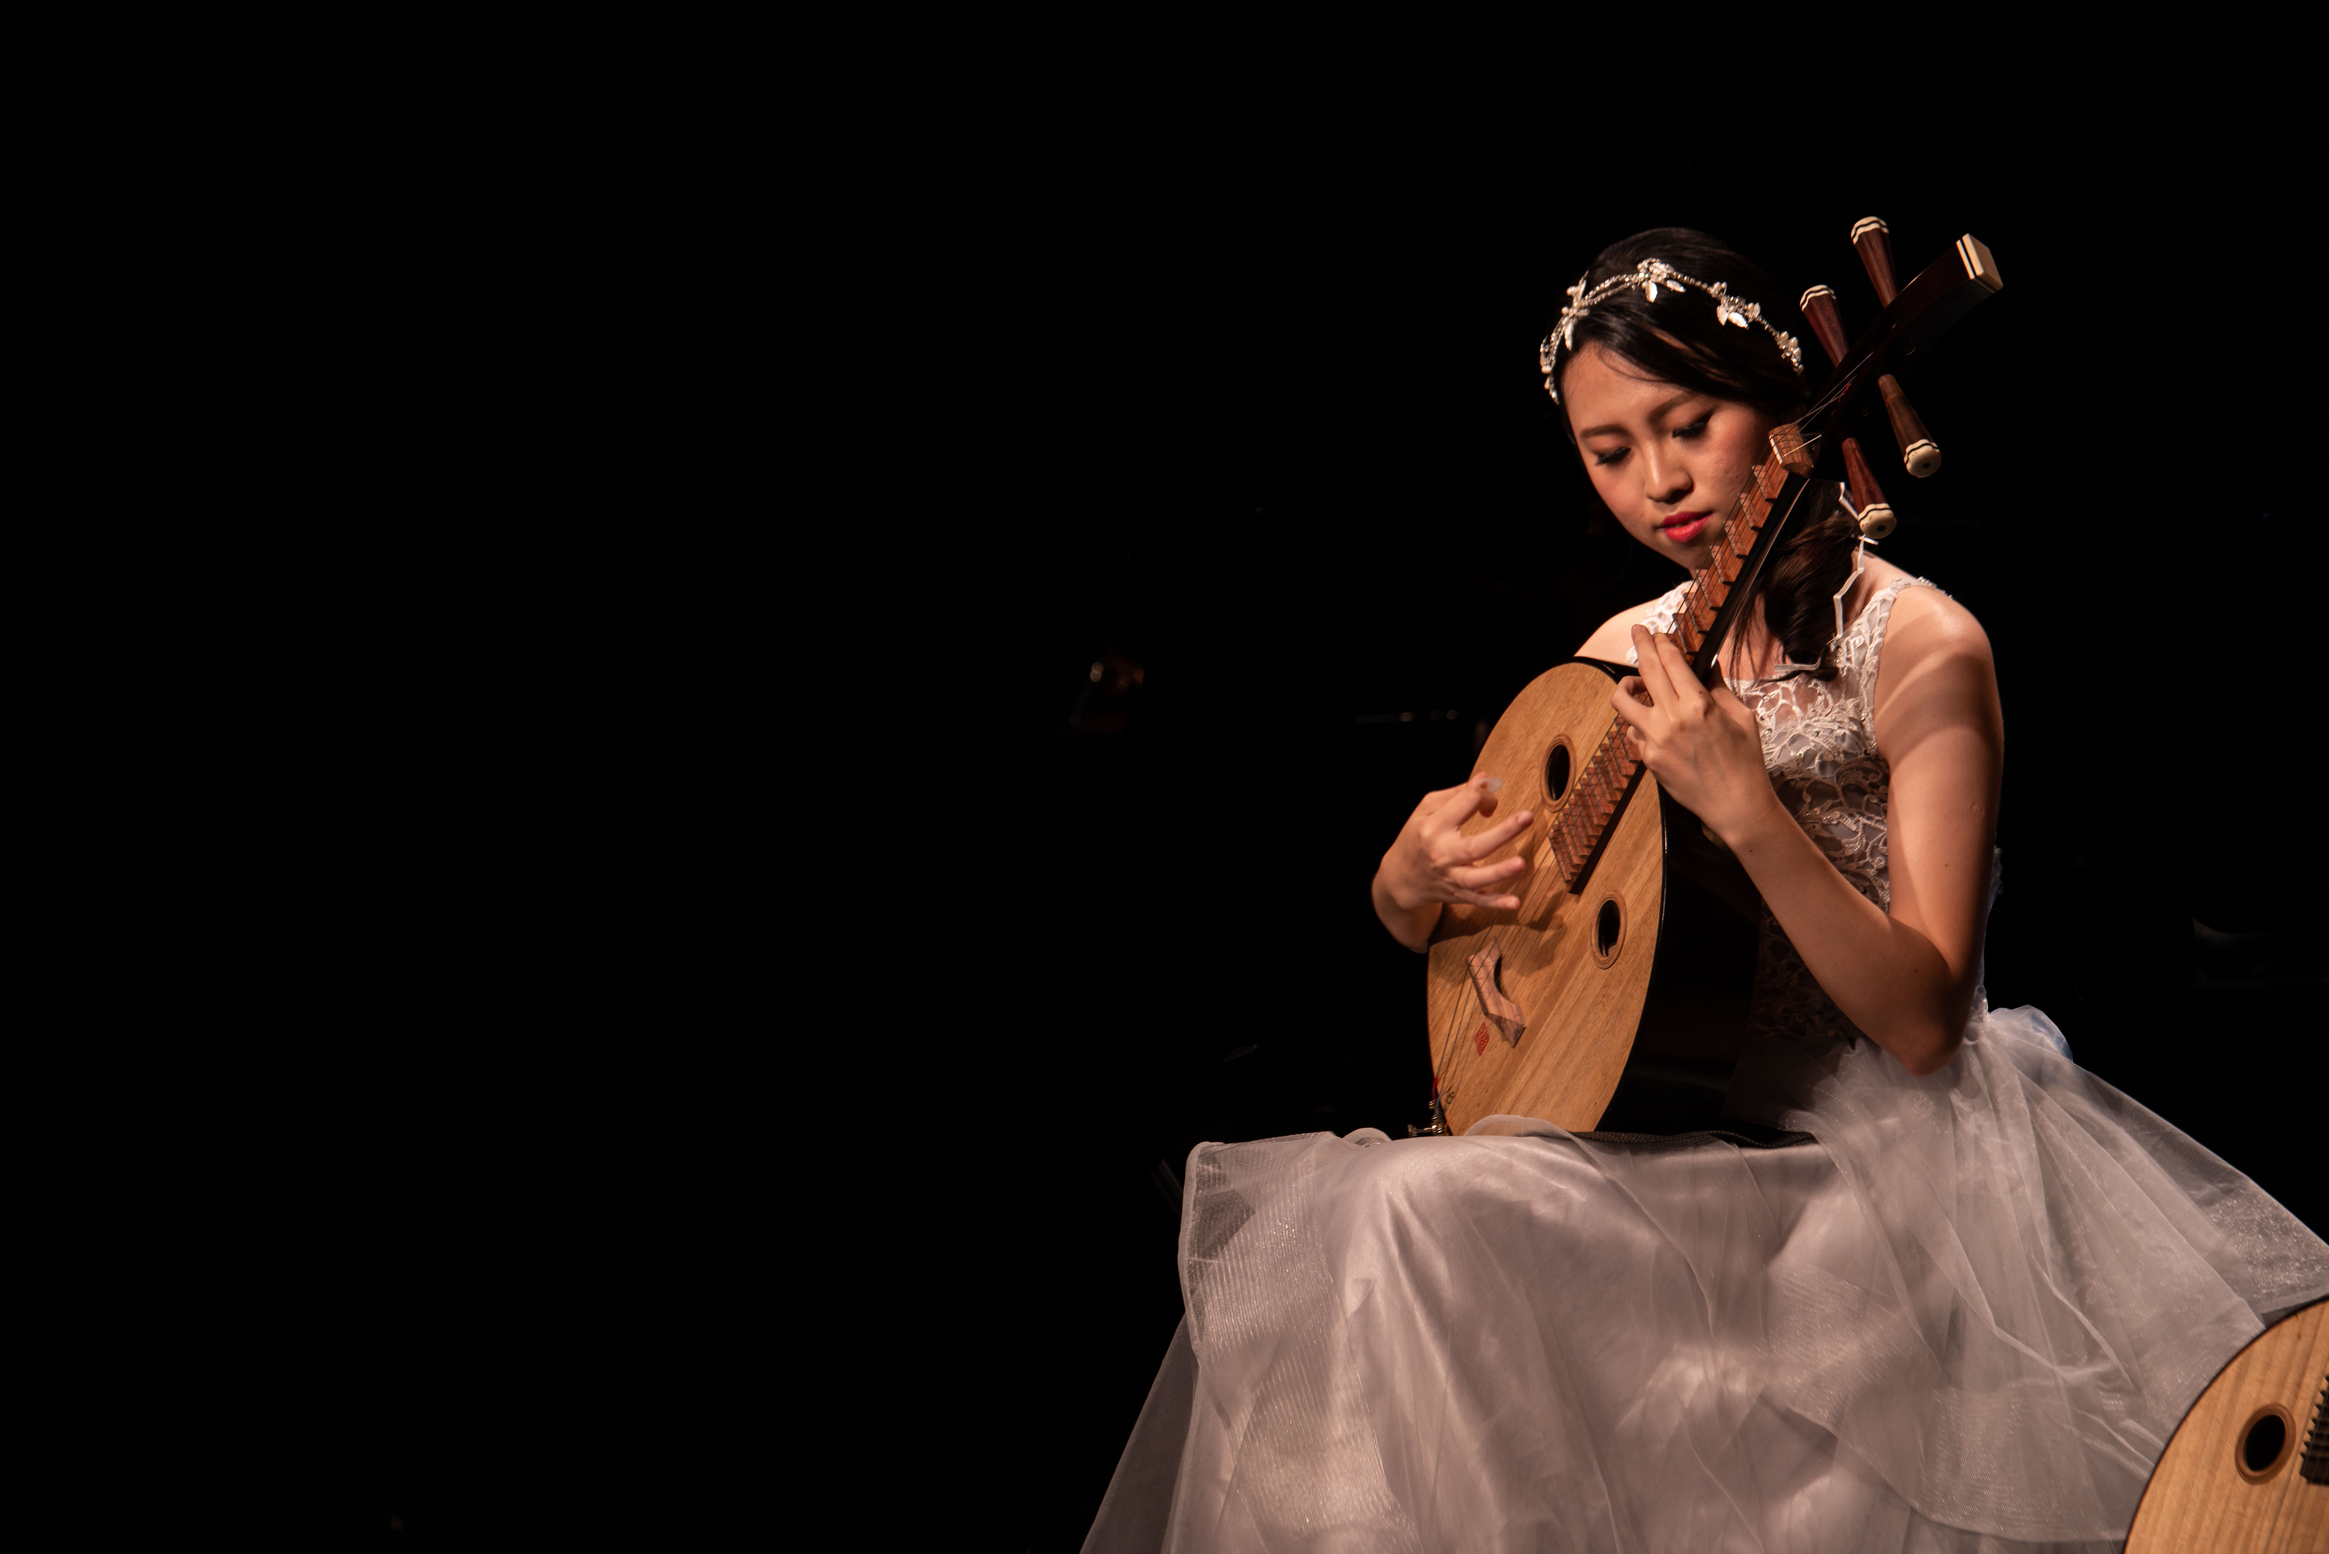
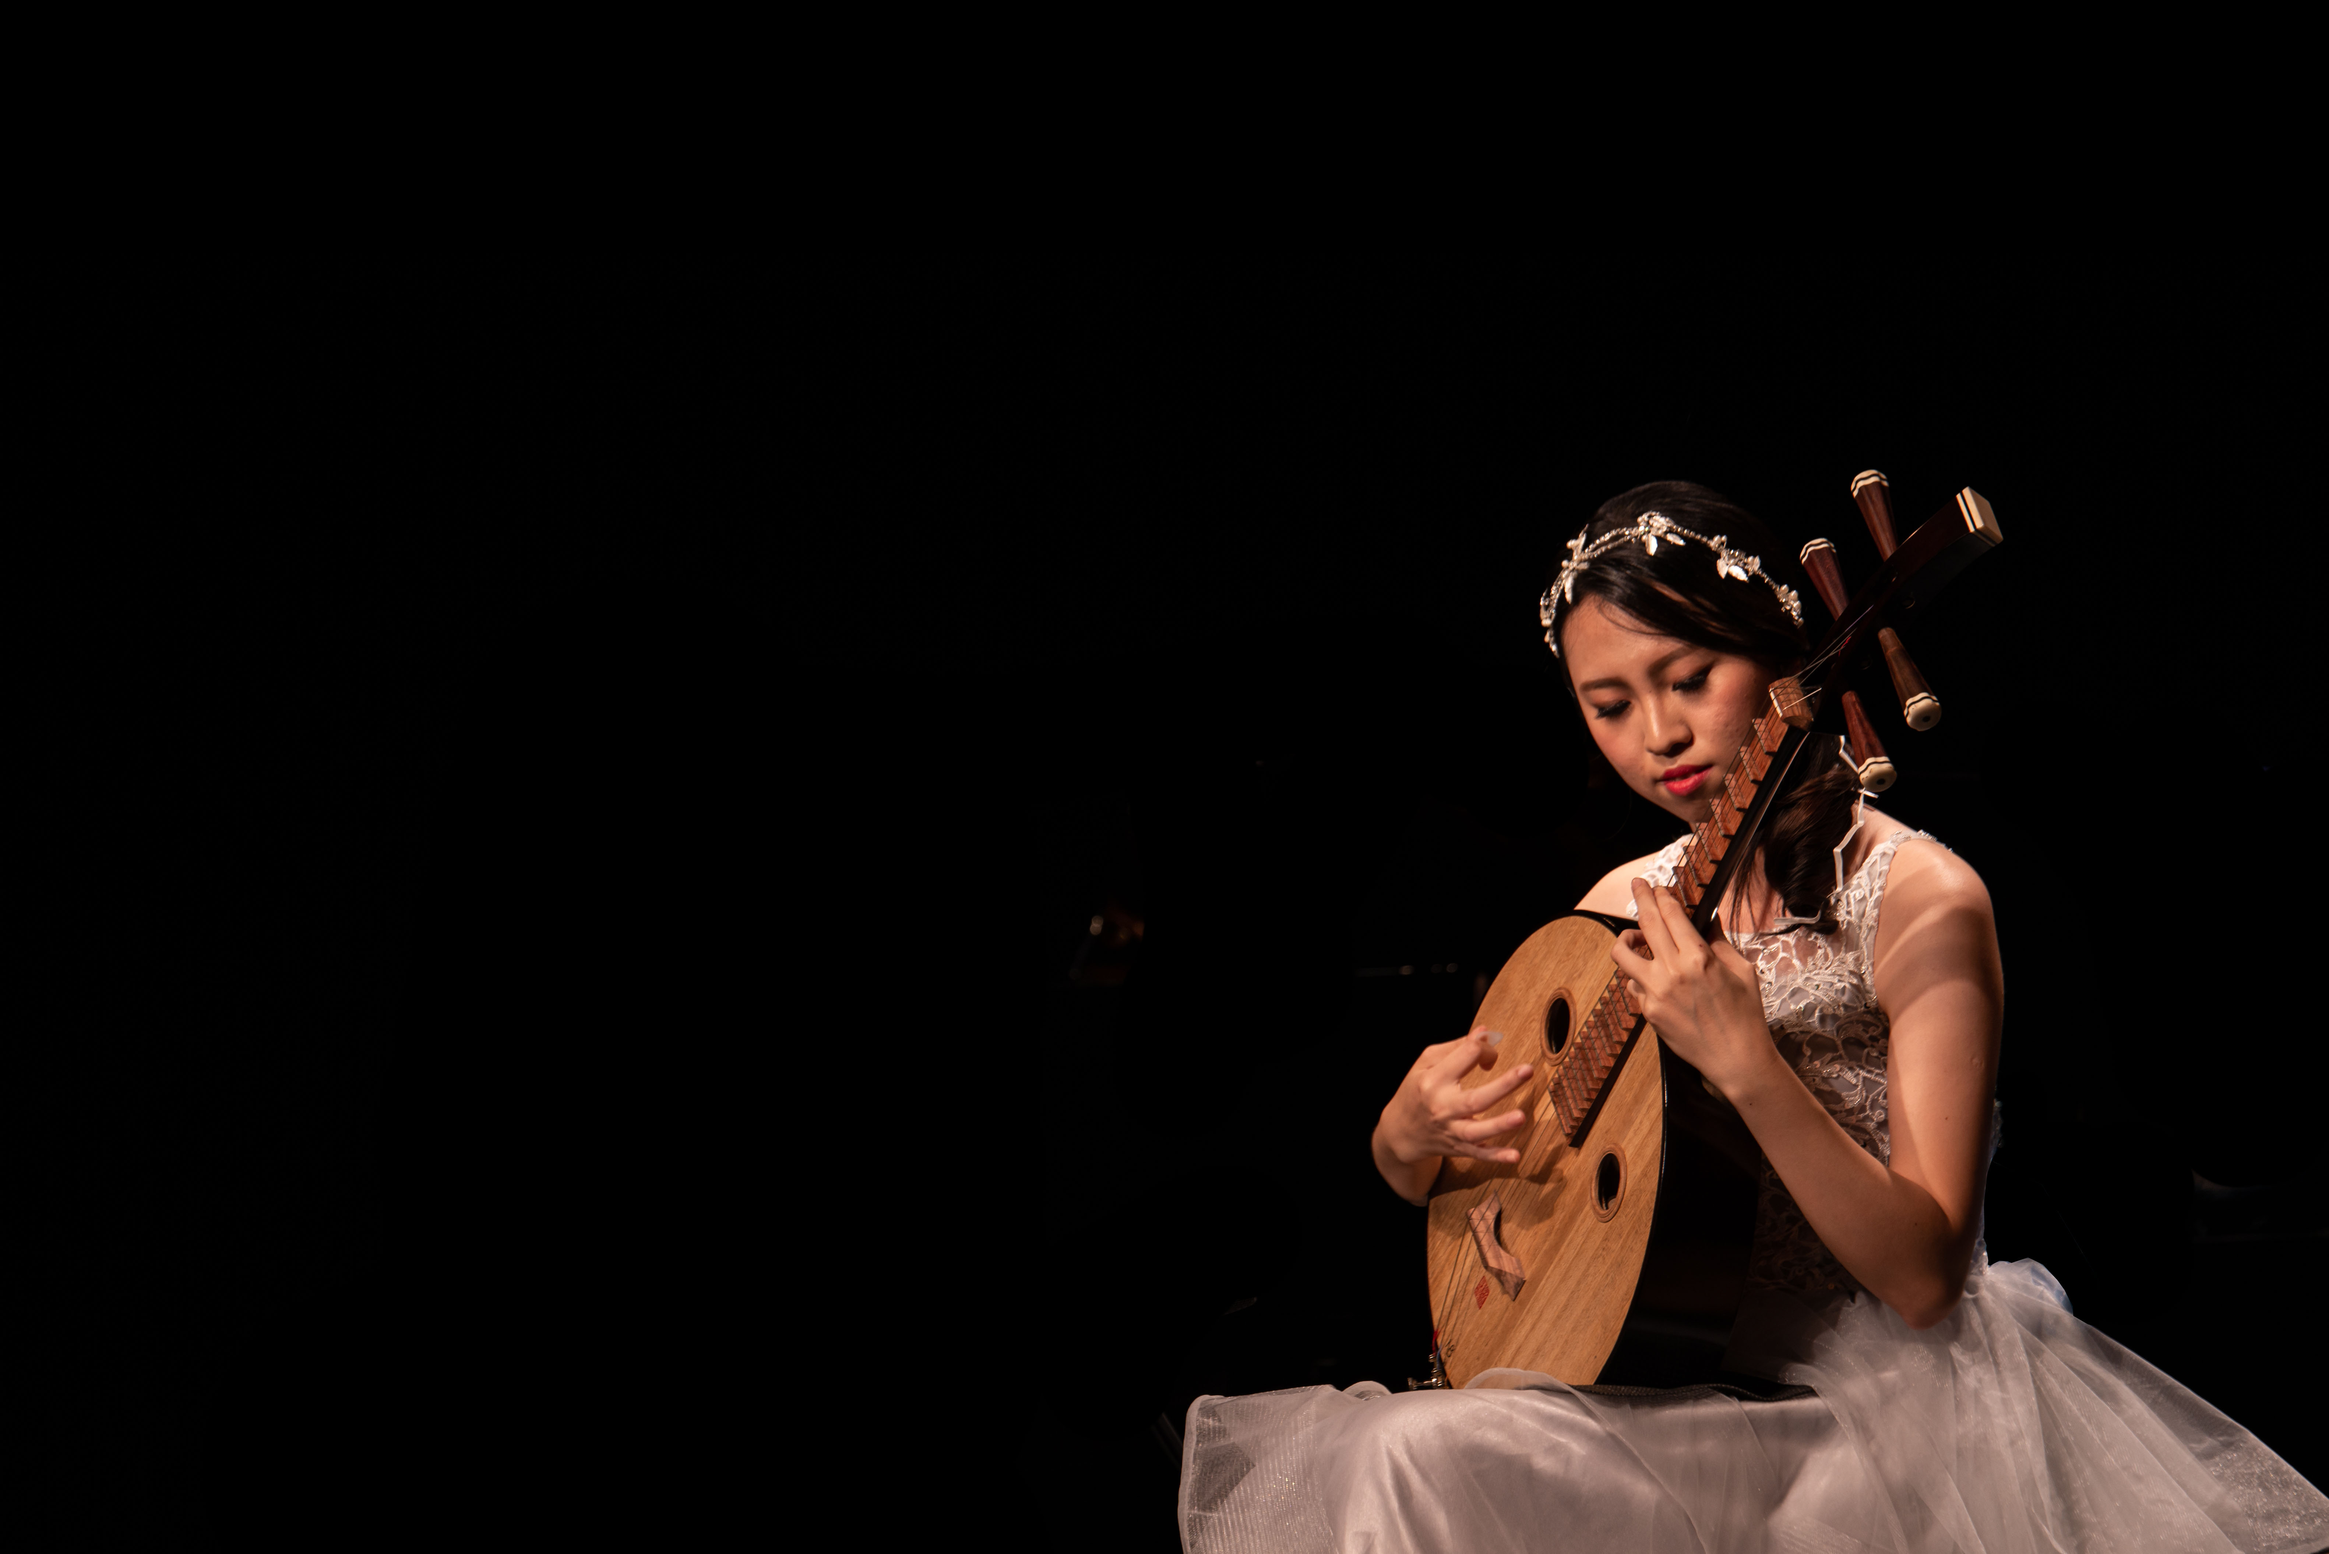
調整主頁照片亮度

Changed region(s): [[0.4671, 0.1241, 1.0, 1.0], [0.8408, 0.3103, 0.872, 0.3413], [0.8408, 0.1551, 0.872, 0.1862]]

diff --git a/css/custom21.css b/css/custom21.css
@@ -39,7 +39,7 @@ header a.active:after {
 
 #hero:before {
   content: "";
-  background: rgba(0, 0, 0, 0.45);
+  background: rgba(0, 0, 0, 0.25);
   position: absolute;
   bottom: 0;
   top: 0;
